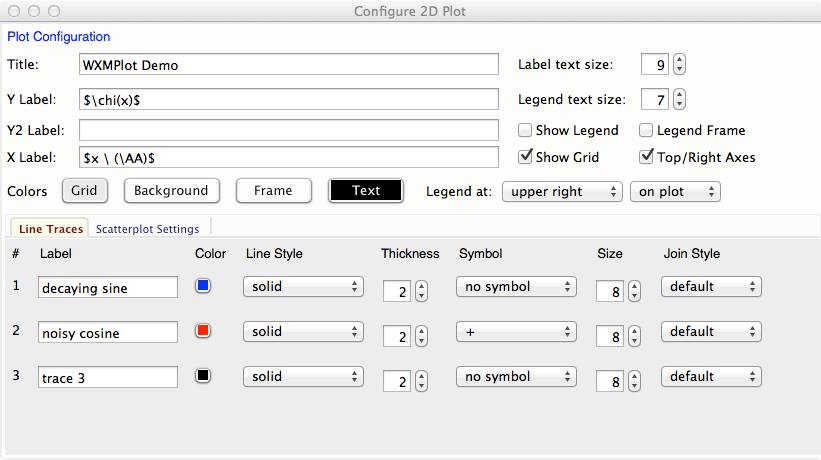
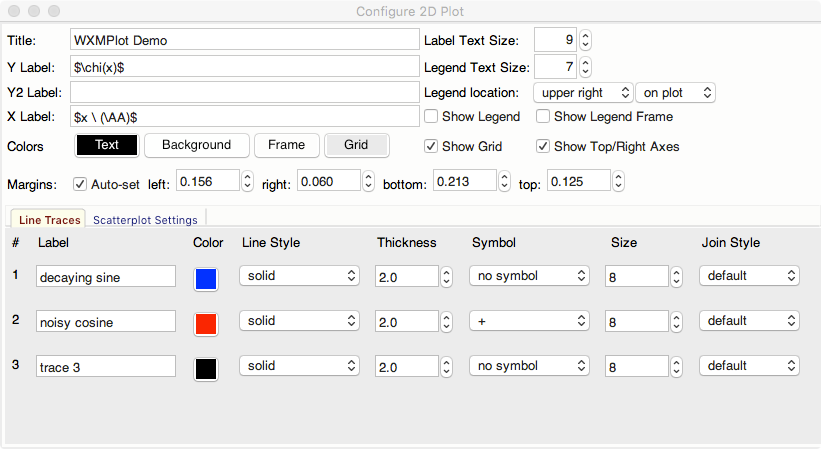
update plotpanel doc and screenshots

diff --git a/doc/plotpanel.rst b/doc/plotpanel.rst
@@ -10,7 +10,7 @@ including line plots and scatter plots.  It has both an easy-to-use
 programming interface, and a rich graphical user interface for
 manipulating the plot after it has been drawn.  The :class:`PlotPanel`
 class is derived from a :class:`wx.Panel` and so that it can be
-included anywhere in a wx Windo object that a normal :class:`wx.Panel`
+included anywhere in a wx Window object that a normal :class:`wx.Panel`
 can be put.  In addition to drawing a plot, a :class:`PlotPanel`
 provides the following capabilities to the end-user:
 
@@ -44,15 +44,13 @@ many additional methods to interact with the plots.
    :type  size:    wx.Size  or tuple of 2 integers.
    :param dpi:    dots per inch for figure (150).
    :type  dpi:    integer
-   :param axissize:  size for maplotlib Axis   ([0.16, 0.16, 0.72, 0.72])
-   :type  axissize:  list of 4 floats
    :param axisbg:    background colour for Axis ('#FEFEFE').
    :type  axisbg:  valid colour name
    :param fontsize:  font size for wxFont for labels and ticks (9).
    :type  fontsize:  integer
-   :param output_tilte:  string to use for output plots ('plot').
+   :param output_title:  string to use for output plots ('plot').
    :param messenger:     function to use for writing output messages  (``None``).
-   :type  messenger: callable or ``None``
+   :type  messenger:     callable or ``None``
    :param trace_color_callback: function to call when a color changes (``None``).
    :type  trace_color_callback: callable or ``None``
    :param show_config_popup: whether to enable a popup-menu on right-click.
@@ -213,7 +211,7 @@ same meaning, as indicated by the right-most column.
       'lower right', 'lower left', 'upper center', 'lower center', or 'center').
 
    10. The *use_dates* option is not very rich, and simply turns x-values that are Unix timestamps into x
-       labels showing the dates. 
+       labels showing the dates.
 
   All of these values, and a few more settings controlling whether and how to display a plot legend can be
   configured interactively (see Plot Configuration).
@@ -450,4 +448,3 @@ the source distribution kit.  The *demo.py* script there will show several
 dynamic plot, updating the plot as fast as it can - typically 10 to 30
 times per second, depending on your machine.  The *stripchart.py* example
 script also shows a dynamic, time-based plot.
-
